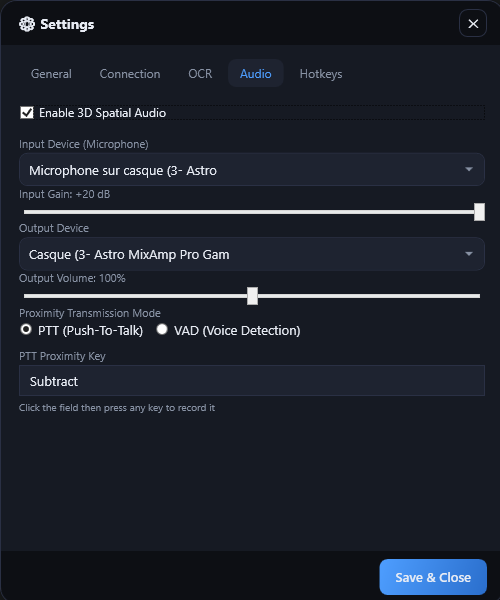
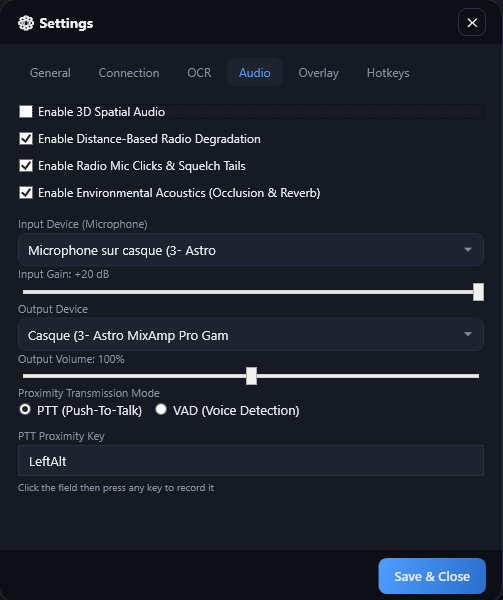
feat(client): add Discord RPC settings toggle and overlay info card

diff --git a/client/Views/SettingsWindow.xaml b/client/Views/SettingsWindow.xaml
@@ -245,6 +245,11 @@
                                       IsChecked="{Binding Config.EnableGeneralLogs, UpdateSourceTrigger=PropertyChanged}"
                                       Foreground="{StaticResource TextPrimary}"
                                       VerticalContentAlignment="Center" FontSize="12" Margin="0,4,0,0"/>
+
+                            <CheckBox Content="{DynamicResource LblEnableDiscordRpc}"
+                                      IsChecked="{Binding Config.EnableDiscordRpc, UpdateSourceTrigger=PropertyChanged}"
+                                      Foreground="{StaticResource TextPrimary}"
+                                      VerticalContentAlignment="Center" FontSize="12" Margin="0,8,0,0"/>
                         </StackPanel>
                     </ScrollViewer>
                 </TabItem>
@@ -459,6 +464,12 @@
                             <TextBlock Text="{DynamicResource LblOverlayPosition}" Style="{StaticResource LabelStyle}"/>
                             <ComboBox x:Name="CbOverlayPosition" Style="{StaticResource ComboStyle}" Margin="0,0,0,16"
                                       SelectionChanged="CbOverlayPosition_SelectionChanged"/>
+
+                            <!-- Overlay Capabilities Info -->
+                            <TextBlock Text="{DynamicResource LblOverlayCapabilities}" Style="{StaticResource LabelStyle}" FontWeight="Bold" Margin="0,12,0,4"/>
+                            <Border Background="{StaticResource BgElevated}" CornerRadius="8" Padding="12" Margin="0,0,0,16">
+                                <TextBlock Text="{DynamicResource LblOverlayCapabilitiesDesc}" Foreground="{StaticResource TextSecondary}" FontSize="11" TextWrapping="Wrap"/>
+                            </Border>
                         </StackPanel>
                     </ScrollViewer>
                 </TabItem>

diff --git a/client/Resources/Strings.de.xaml b/client/Resources/Strings.de.xaml
@@ -118,6 +118,9 @@
     <sys:String x:Key="OptBottomLeft">Unten-Links</sys:String>
     <sys:String x:Key="OptBottomCenter">Unten-Mitte</sys:String>
     <sys:String x:Key="OptBottomRight">Unten-Rechts</sys:String>
+    <sys:String x:Key="LblEnableDiscordRpc">Discord Rich Presence aktivieren</sys:String>
+    <sys:String x:Key="LblOverlayCapabilities">Overlay-Funktionen</sys:String>
+    <sys:String x:Key="LblOverlayCapabilitiesDesc">Das HUD-Overlay ist vollständig kompatibel mit Vulkan und DirectX, wenn Star Citizen im Modus "Rahmenloses Fenster" ausgeführt wird. Es zeigt den VoIP-Verbindungsstatus im Spiel, die aktive Funkfrequenz und Echtzeit-Sprechanzeigen an, ohne in den Spielcode einzugreifen oder ein Ban-Risiko darzustellen.</sys:String>
 
     <!-- Schaltflächen Allgemein -->
     <sys:String x:Key="BtnSaveClose">Speichern &amp; Schließen</sys:String>

diff --git a/client/Resources/Strings.en.xaml b/client/Resources/Strings.en.xaml
@@ -118,6 +118,9 @@
     <sys:String x:Key="OptBottomLeft">Bottom-Left</sys:String>
     <sys:String x:Key="OptBottomCenter">Bottom-Center</sys:String>
     <sys:String x:Key="OptBottomRight">Bottom-Right</sys:String>
+    <sys:String x:Key="LblEnableDiscordRpc">Enable Discord Rich Presence</sys:String>
+    <sys:String x:Key="LblOverlayCapabilities">Overlay Capabilities</sys:String>
+    <sys:String x:Key="LblOverlayCapabilitiesDesc">The HUD overlay is fully Vulkan and DirectX compatible when Star Citizen is run in "Borderless Windowed" mode. It displays in-game VoIP connection status, the active radio frequency, and real-time talking indicators without injecting into game code or risking bans.</sys:String>
 
     <!-- Buttons General -->
     <sys:String x:Key="BtnSaveClose">Save &amp; Close</sys:String>

diff --git a/client/Resources/Strings.es.xaml b/client/Resources/Strings.es.xaml
@@ -118,6 +118,9 @@
     <sys:String x:Key="OptBottomLeft">Abajo-Izquierda</sys:String>
     <sys:String x:Key="OptBottomCenter">Abajo-Centro</sys:String>
     <sys:String x:Key="OptBottomRight">Abajo-Derecha</sys:String>
+    <sys:String x:Key="LblEnableDiscordRpc">Activar Discord Rich Presence</sys:String>
+    <sys:String x:Key="LblOverlayCapabilities">Capacidades de la Superposición</sys:String>
+    <sys:String x:Key="LblOverlayCapabilitiesDesc">La superposición de HUD es totalmente compatible con Vulkan y DirectX cuando Star Citizen se ejecuta en modo "Ventana sin bordes". Muestra el estado de la conexión VoIP en el juego, la frecuencia de radio activa y los indicadores de habla en tiempo real sin inyectarse en el código del juego ni arriesgarse a baneos.</sys:String>
 
     <!-- Botones General -->
     <sys:String x:Key="BtnSaveClose">Guardar &amp; Cerrar</sys:String>

diff --git a/client/Resources/Strings.fr.xaml b/client/Resources/Strings.fr.xaml
@@ -118,6 +118,9 @@
     <sys:String x:Key="OptBottomLeft">Bas-Gauche</sys:String>
     <sys:String x:Key="OptBottomCenter">Bas-Milieu</sys:String>
     <sys:String x:Key="OptBottomRight">Bas-Droite</sys:String>
+    <sys:String x:Key="LblEnableDiscordRpc">Activer Discord Rich Presence</sys:String>
+    <sys:String x:Key="LblOverlayCapabilities">Capacités de l'Overlay</sys:String>
+    <sys:String x:Key="LblOverlayCapabilitiesDesc">L'overlay HUD est entièrement compatible avec Vulkan et DirectX lorsque Star Citizen est lancé en mode "Fenêtré sans bordure". Il affiche l'état de la connexion VoIP en jeu, la fréquence radio active et les indicateurs de parole en temps réel sans injection de code ni risque de bannissement.</sys:String>
 
     <!-- Boutons Généraux -->
     <sys:String x:Key="BtnSaveClose">Sauvegarder &amp; Fermer</sys:String>

diff --git a/client/Resources/Strings.ja.xaml b/client/Resources/Strings.ja.xaml
@@ -118,6 +118,9 @@
     <sys:String x:Key="OptBottomLeft">左下</sys:String>
     <sys:String x:Key="OptBottomCenter">中央下</sys:String>
     <sys:String x:Key="OptBottomRight">右下</sys:String>
+    <sys:String x:Key="LblEnableDiscordRpc">Discord Rich Presenceを有効化</sys:String>
+    <sys:String x:Key="LblOverlayCapabilities">オーバーレイ機能について</sys:String>
+    <sys:String x:Key="LblOverlayCapabilitiesDesc">HUDオーバーレイは、スターシチズンが「ボーダーレスウィンドウ」モードで実行されている場合、VulkanおよびDirectXと完全に互換性があります。ゲームのコードにインジェクションすることなく、安全にゲーム内のVoIP接続ステータス、アクティブな無線周波数、およびリアルタイムの発言中インジケーターを表示します。</sys:String>
 
     <!-- Buttons General -->
     <sys:String x:Key="BtnSaveClose">保存して閉じる</sys:String>

diff --git a/client/Resources/Strings.pt-BR.xaml b/client/Resources/Strings.pt-BR.xaml
@@ -118,6 +118,9 @@
     <sys:String x:Key="OptBottomLeft">Inferior Esquerdo</sys:String>
     <sys:String x:Key="OptBottomCenter">Inferior Centro</sys:String>
     <sys:String x:Key="OptBottomRight">Inferior Direito</sys:String>
+    <sys:String x:Key="LblEnableDiscordRpc">Habilitar Discord Rich Presence</sys:String>
+    <sys:String x:Key="LblOverlayCapabilities">Recursos do Overlay</sys:String>
+    <sys:String x:Key="LblOverlayCapabilitiesDesc">O overlay HUD é totalmente compatível com Vulkan e DirectX quando o Star Citizen é executado em modo "Janela sem Bordas". Exibe o status da conexão VoIP no jogo, a frequência de rádio ativa e os indicadores de fala em tempo real sem se injetar no código do jogo ou arriscar banimentos.</sys:String>
 
     <!-- Buttons General -->
     <sys:String x:Key="BtnSaveClose">Salvar e Fechar</sys:String>

diff --git a/client/Resources/Strings.pt-PT.xaml b/client/Resources/Strings.pt-PT.xaml
@@ -118,6 +118,9 @@
     <sys:String x:Key="OptBottomLeft">Inferior Esquerdo</sys:String>
     <sys:String x:Key="OptBottomCenter">Inferior Centro</sys:String>
     <sys:String x:Key="OptBottomRight">Inferior Direito</sys:String>
+    <sys:String x:Key="LblEnableDiscordRpc">Ativar Discord Rich Presence</sys:String>
+    <sys:String x:Key="LblOverlayCapabilities">Capacidades do Overlay</sys:String>
+    <sys:String x:Key="LblOverlayCapabilitiesDesc">O overlay HUD é totalmente compatível com Vulkan e DirectX quando o Star Citizen é executado em modo "Janela sem Bordas". Exibe o estado da ligação VoIP no jogo, a frequência de rádio ativa e os indicadores de fala em tempo real sem injetar no código do jogo ou correr o risco de banimentos.</sys:String>
 
     <!-- Buttons General -->
     <sys:String x:Key="BtnSaveClose">Guardar e Fechar</sys:String>

diff --git a/client/Resources/Strings.zh.xaml b/client/Resources/Strings.zh.xaml
@@ -118,6 +118,9 @@
     <sys:String x:Key="OptBottomLeft">左下</sys:String>
     <sys:String x:Key="OptBottomCenter">中下</sys:String>
     <sys:String x:Key="OptBottomRight">右下</sys:String>
+    <sys:String x:Key="LblEnableDiscordRpc">启用 Discord 状态呈现 (Rich Presence)</sys:String>
+    <sys:String x:Key="LblOverlayCapabilities">覆盖层功能介绍</sys:String>
+    <sys:String x:Key="LblOverlayCapabilitiesDesc">当《星际公民》在“无边框窗口模式”下运行时，HUD 覆盖层完美兼容 Vulkan 和 DirectX。它能够实时显示游戏内 VoIP 连接状态、当前电台频率和说话状态指示器，无需注入游戏进程或产生任何封号风险。</sys:String>
 
     <!-- Buttons General -->
     <sys:String x:Key="BtnSaveClose">保存并关闭</sys:String>

diff --git a/client/Services/DiscordRpcService.cs b/client/Services/DiscordRpcService.cs
@@ -22,9 +22,32 @@ public class DiscordRpcService : IDisposable
     private readonly object _lock = new();
     private bool _isConnected;
     private long _startTimestamp;
+    private bool _enabled = true;
     
     private string? _currentState;
     private string? _currentDetails;
+
+    public bool Enabled
+    {
+        get
+        {
+            lock (_lock) return _enabled;
+        }
+        set
+        {
+            lock (_lock)
+            {
+                if (_enabled == value) return;
+                _enabled = value;
+                if (!_enabled)
+                {
+                    _isConnected = false;
+                    _pipeStream?.Dispose();
+                    _pipeStream = null;
+                }
+            }
+        }
+    }
 
     public void Start()
     {
@@ -38,6 +61,7 @@ public class DiscordRpcService : IDisposable
         {
             _currentDetails = details;
             _currentState = state;
+            if (!_enabled) return;
         }
         
         if (_isConnected)
@@ -52,22 +76,40 @@ public class DiscordRpcService : IDisposable
         {
             try
             {
-                if (_pipeStream == null || !_pipeStream.IsConnected)
+                bool isEnabled;
+                lock (_lock)
                 {
-                    _isConnected = false;
-                    _pipeStream?.Dispose();
-                    
-                    _pipeStream = new NamedPipeClientStream(".", PipeName, PipeDirection.InOut, PipeOptions.Asynchronous);
-                    await _pipeStream.ConnectAsync(2000, _cts.Token);
-                    
-                    if (SendHandshake())
+                    isEnabled = _enabled;
+                }
+
+                if (isEnabled)
+                {
+                    if (_pipeStream == null || !_pipeStream.IsConnected)
                     {
-                        byte[] response = await ReadFrameAsync(_cts.Token);
-                        if (response.Length > 0)
+                        _isConnected = false;
+                        _pipeStream?.Dispose();
+                        
+                        _pipeStream = new NamedPipeClientStream(".", PipeName, PipeDirection.InOut, PipeOptions.Asynchronous);
+                        await _pipeStream.ConnectAsync(2000, _cts.Token);
+                        
+                        if (SendHandshake())
                         {
-                            _isConnected = true;
-                            SendPresence();
+                            byte[] response = await ReadFrameAsync(_cts.Token);
+                            if (response.Length > 0)
+                            {
+                                _isConnected = true;
+                                SendPresence();
+                            }
                         }
+                    }
+                }
+                else
+                {
+                    if (_pipeStream != null)
+                    {
+                        _isConnected = false;
+                        _pipeStream.Dispose();
+                        _pipeStream = null;
                     }
                 }
 

diff --git a/client/Models/AppConfig.cs b/client/Models/AppConfig.cs
@@ -60,4 +60,8 @@ public class AppConfig
     // --- Borderless Overlay ---
     public bool EnableOverlay { get; set; } = false;
     public string OverlayPosition { get; set; } = "TopLeft";
+
+    // --- Discord RPC ---
+    public bool EnableDiscordRpc { get; set; } = true;
 }
+

diff --git a/client/ViewModels/MainViewModel.cs b/client/ViewModels/MainViewModel.cs
@@ -210,6 +210,7 @@ public class MainViewModel : INotifyPropertyChanged, IAsyncDisposable
 
     private async void InitializeServicesAsync()
     {
+        _discordRpc.Enabled = Config.Config.EnableDiscordRpc;
         _discordRpc.Start();
         // Initialize position tracking source
         ApplyTrackingSource();
@@ -799,6 +800,7 @@ public class MainViewModel : INotifyPropertyChanged, IAsyncDisposable
         _playback.EnableRadioDegradation = Config.Config.EnableRadioDegradation;
         _playback.EnablePttChimes = Config.Config.EnablePttChimes;
         _playback.EnableEnvironmentalAcoustics = Config.Config.EnableEnvironmentalAcoustics;
+        _discordRpc.Enabled = Config.Config.EnableDiscordRpc;
 
         // Sync position tracking source
         ApplyTrackingSource();